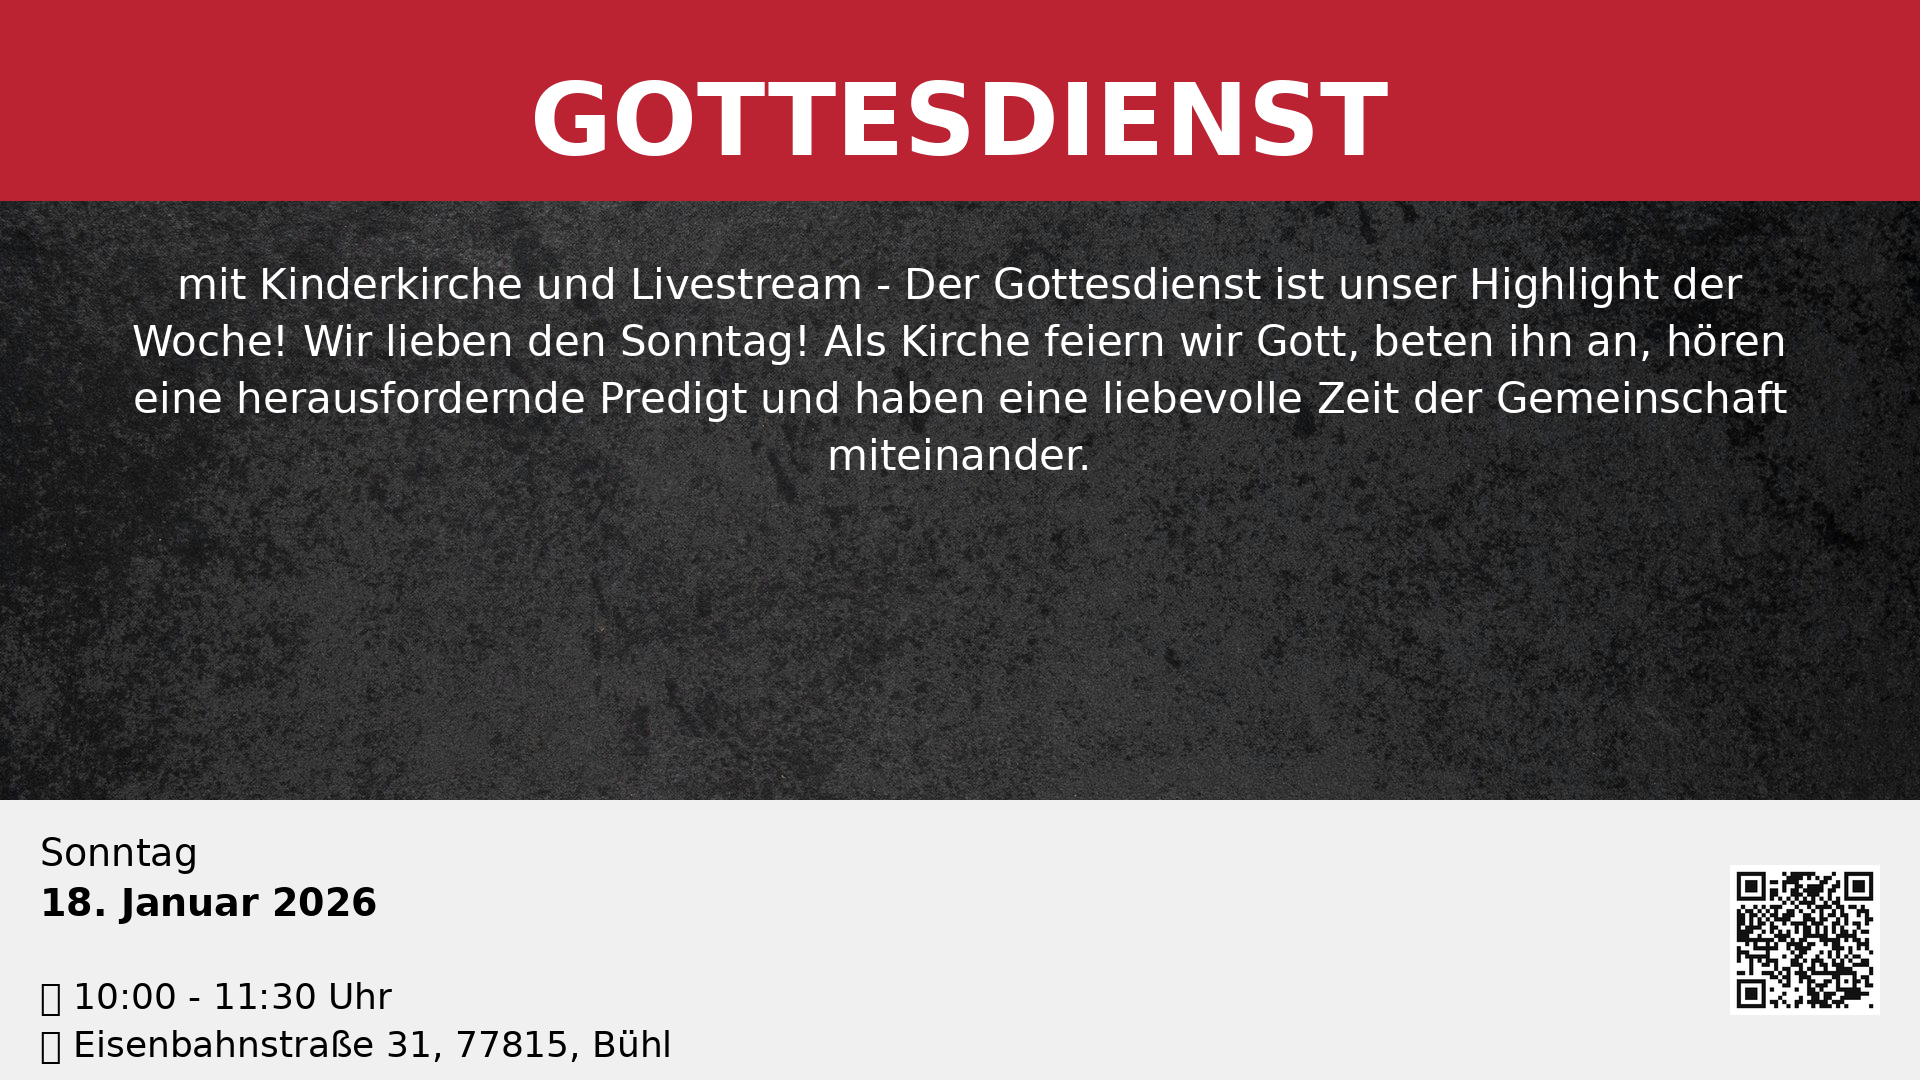
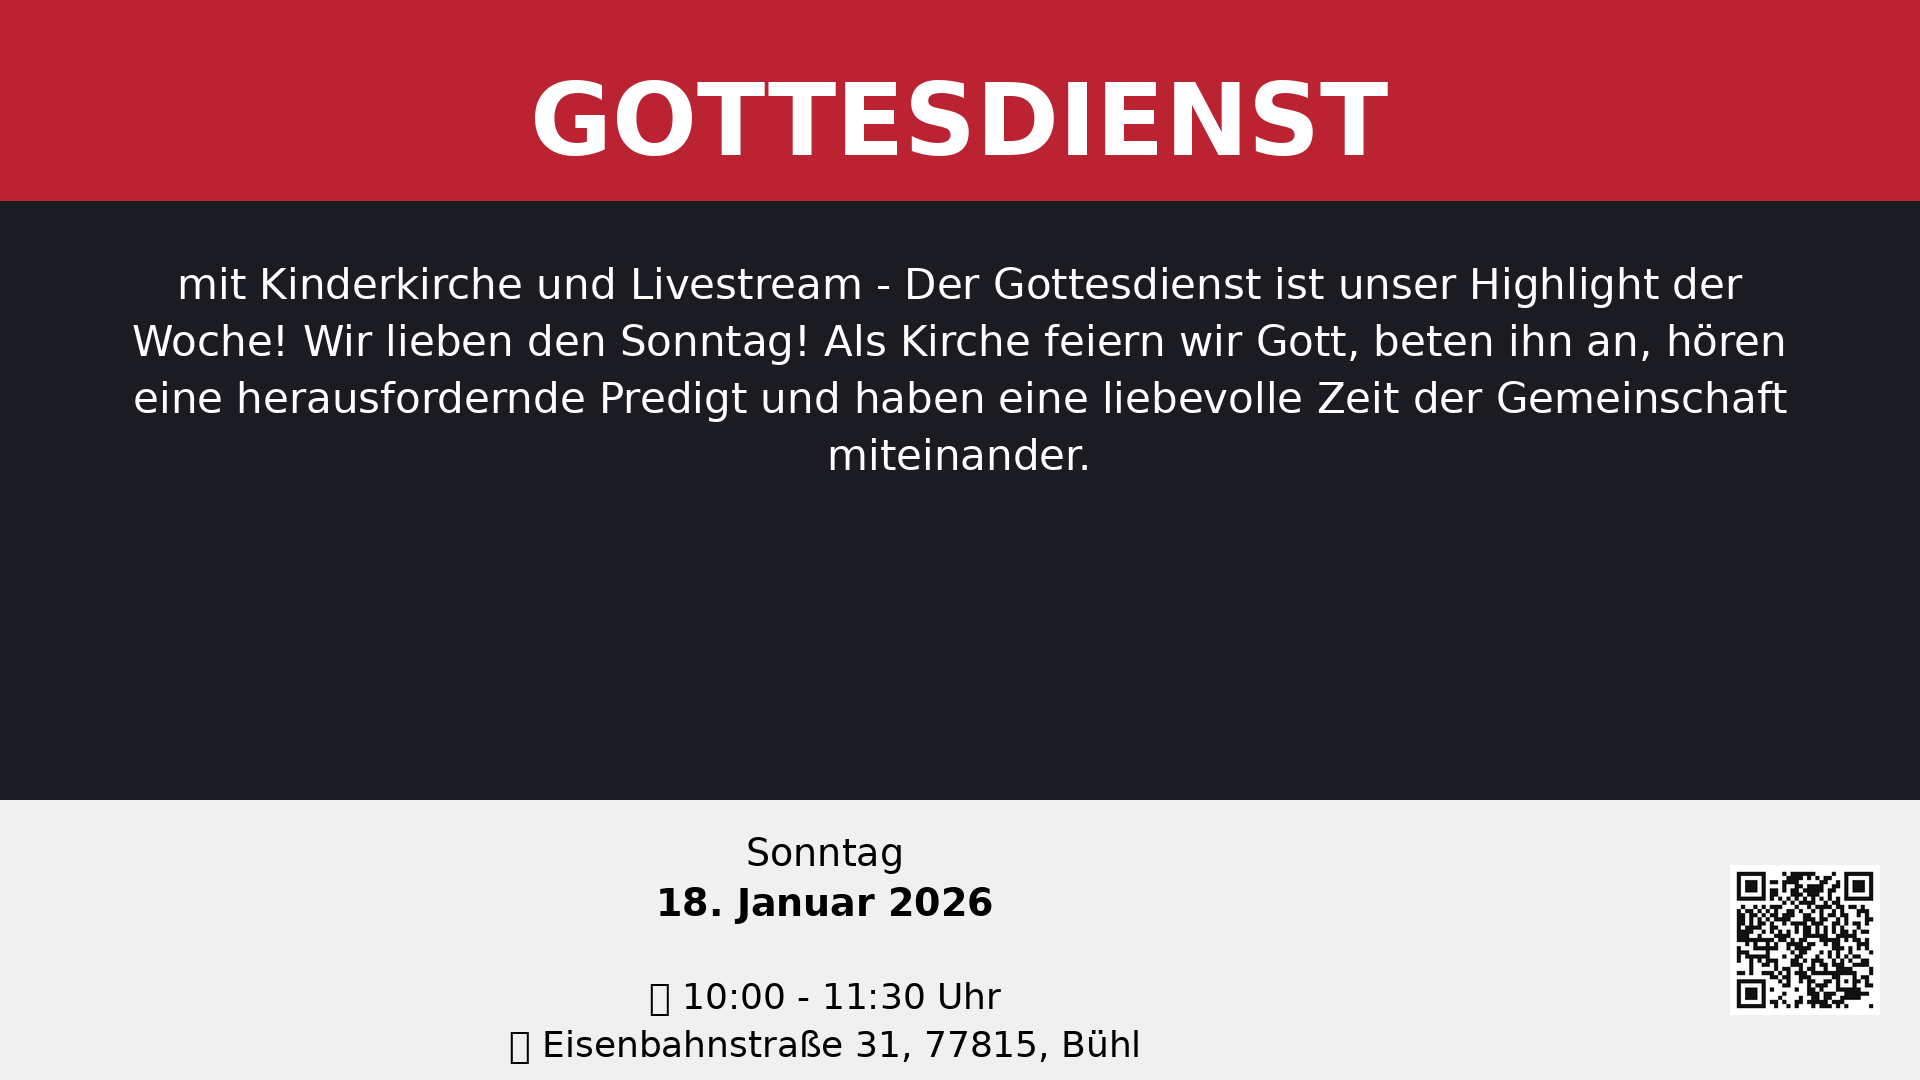
🎨 Footer-Layout: Text zentriert (wie ansagen.html)
✨ Änderungen:
- Footer-Text jetzt zentriert (statt linksbündig)
- Neue Methode: _draw_centered_text_in_width()
- Layout entspricht jetzt dem Referenz-Design

📦 Layout-Anpassungen:
- Wochentag: Zentriert
- Datum: Zentriert (große Schrift)
- Uhrzeit: Zentriert
- Ort: Zentriert
- QR-Code: Rechts (unverändert)

🎯 Resultat:
- Alle 21 Folien mit zentriertem Footer regeneriert
- Design entspricht ansagen.html Vorlage

diff --git a/src/generator.py b/src/generator.py
@@ -418,7 +418,7 @@ class SlideGenerator:
         return y
 
     def _draw_footer(self, img: Image.Image, draw: ImageDraw.Draw, event: Dict):
-        """Zeichnet weißen Footer mit Details und QR-Code (neues Layout)"""
+        """Zeichnet weißen Footer mit Details und QR-Code (zentriertes Layout)"""
         footer_y = Config.HEIGHT - Config.FOOTER_HEIGHT
 
         # Hellgrauer Footer-Hintergrund (wie im Screenshot)
@@ -444,26 +444,26 @@ class SlideGenerator:
         # Y-Position für zentrierten Content
         y = footer_y + 30
 
-        # 1. Wochentag (zentriert, kleinere Schrift)
-        self._draw_left_aligned_text(draw, wochentag, Config.FOOTER_PADDING, y, font_wochentag, Config.SCHWARZ)
+        # 1. Wochentag (zentriert im verfügbaren Bereich)
+        self._draw_centered_text_in_width(draw, wochentag, 0, content_width, y, font_wochentag, Config.SCHWARZ)
         y += 50
 
         # 2. Datum (zentriert, sehr große Schrift)
-        self._draw_left_aligned_text(draw, datum, Config.FOOTER_PADDING, y, font_datum, Config.SCHWARZ)
+        self._draw_centered_text_in_width(draw, datum, 0, content_width, y, font_datum, Config.SCHWARZ)
         y += 95
 
         # 3. Uhrzeit mit Icon
         if time_str:
             # Unicode Clock Icon
             time_text = f"🕐 {time_str}"
-            self._draw_left_aligned_text(draw, time_text, Config.FOOTER_PADDING, y, font_details, Config.SCHWARZ)
+            self._draw_centered_text_in_width(draw, time_text, 0, content_width, y, font_details, Config.SCHWARZ)
             y += 48
 
         # 4. Ort mit Icon (gekürzt falls zu lang)
         if location_str:
             location_str = self._truncate_text(location_str, font_details, content_width - Config.FOOTER_PADDING, draw)
             location_text = f"📍 {location_str}"
-            self._draw_left_aligned_text(draw, location_text, Config.FOOTER_PADDING, y, font_details, Config.SCHWARZ)
+            self._draw_centered_text_in_width(draw, location_text, 0, content_width, y, font_details, Config.SCHWARZ)
 
         # QR-Code (rechts im Footer, zentriert vertikal)
         if self.assets.qr_code:
@@ -550,6 +550,13 @@ class SlideGenerator:
         bbox = draw.textbbox((0, 0), text, font=font)
         text_width = bbox[2] - bbox[0]
         x = (Config.WIDTH - text_width) // 2
+        draw.text((x, y), text, font=font, fill=color)
+
+    def _draw_centered_text_in_width(self, draw: ImageDraw.Draw, text: str, x_start: int, width: int, y: int, font: ImageFont.FreeTypeFont, color):
+        """Zeichnet Text zentriert innerhalb einer bestimmten Breite"""
+        bbox = draw.textbbox((0, 0), text, font=font)
+        text_width = bbox[2] - bbox[0]
+        x = x_start + (width - text_width) // 2
         draw.text((x, y), text, font=font, fill=color)
 
     def _draw_left_aligned_text(self, draw: ImageDraw.Draw, text: str, x: int, y: int, font: ImageFont.FreeTypeFont, color):
